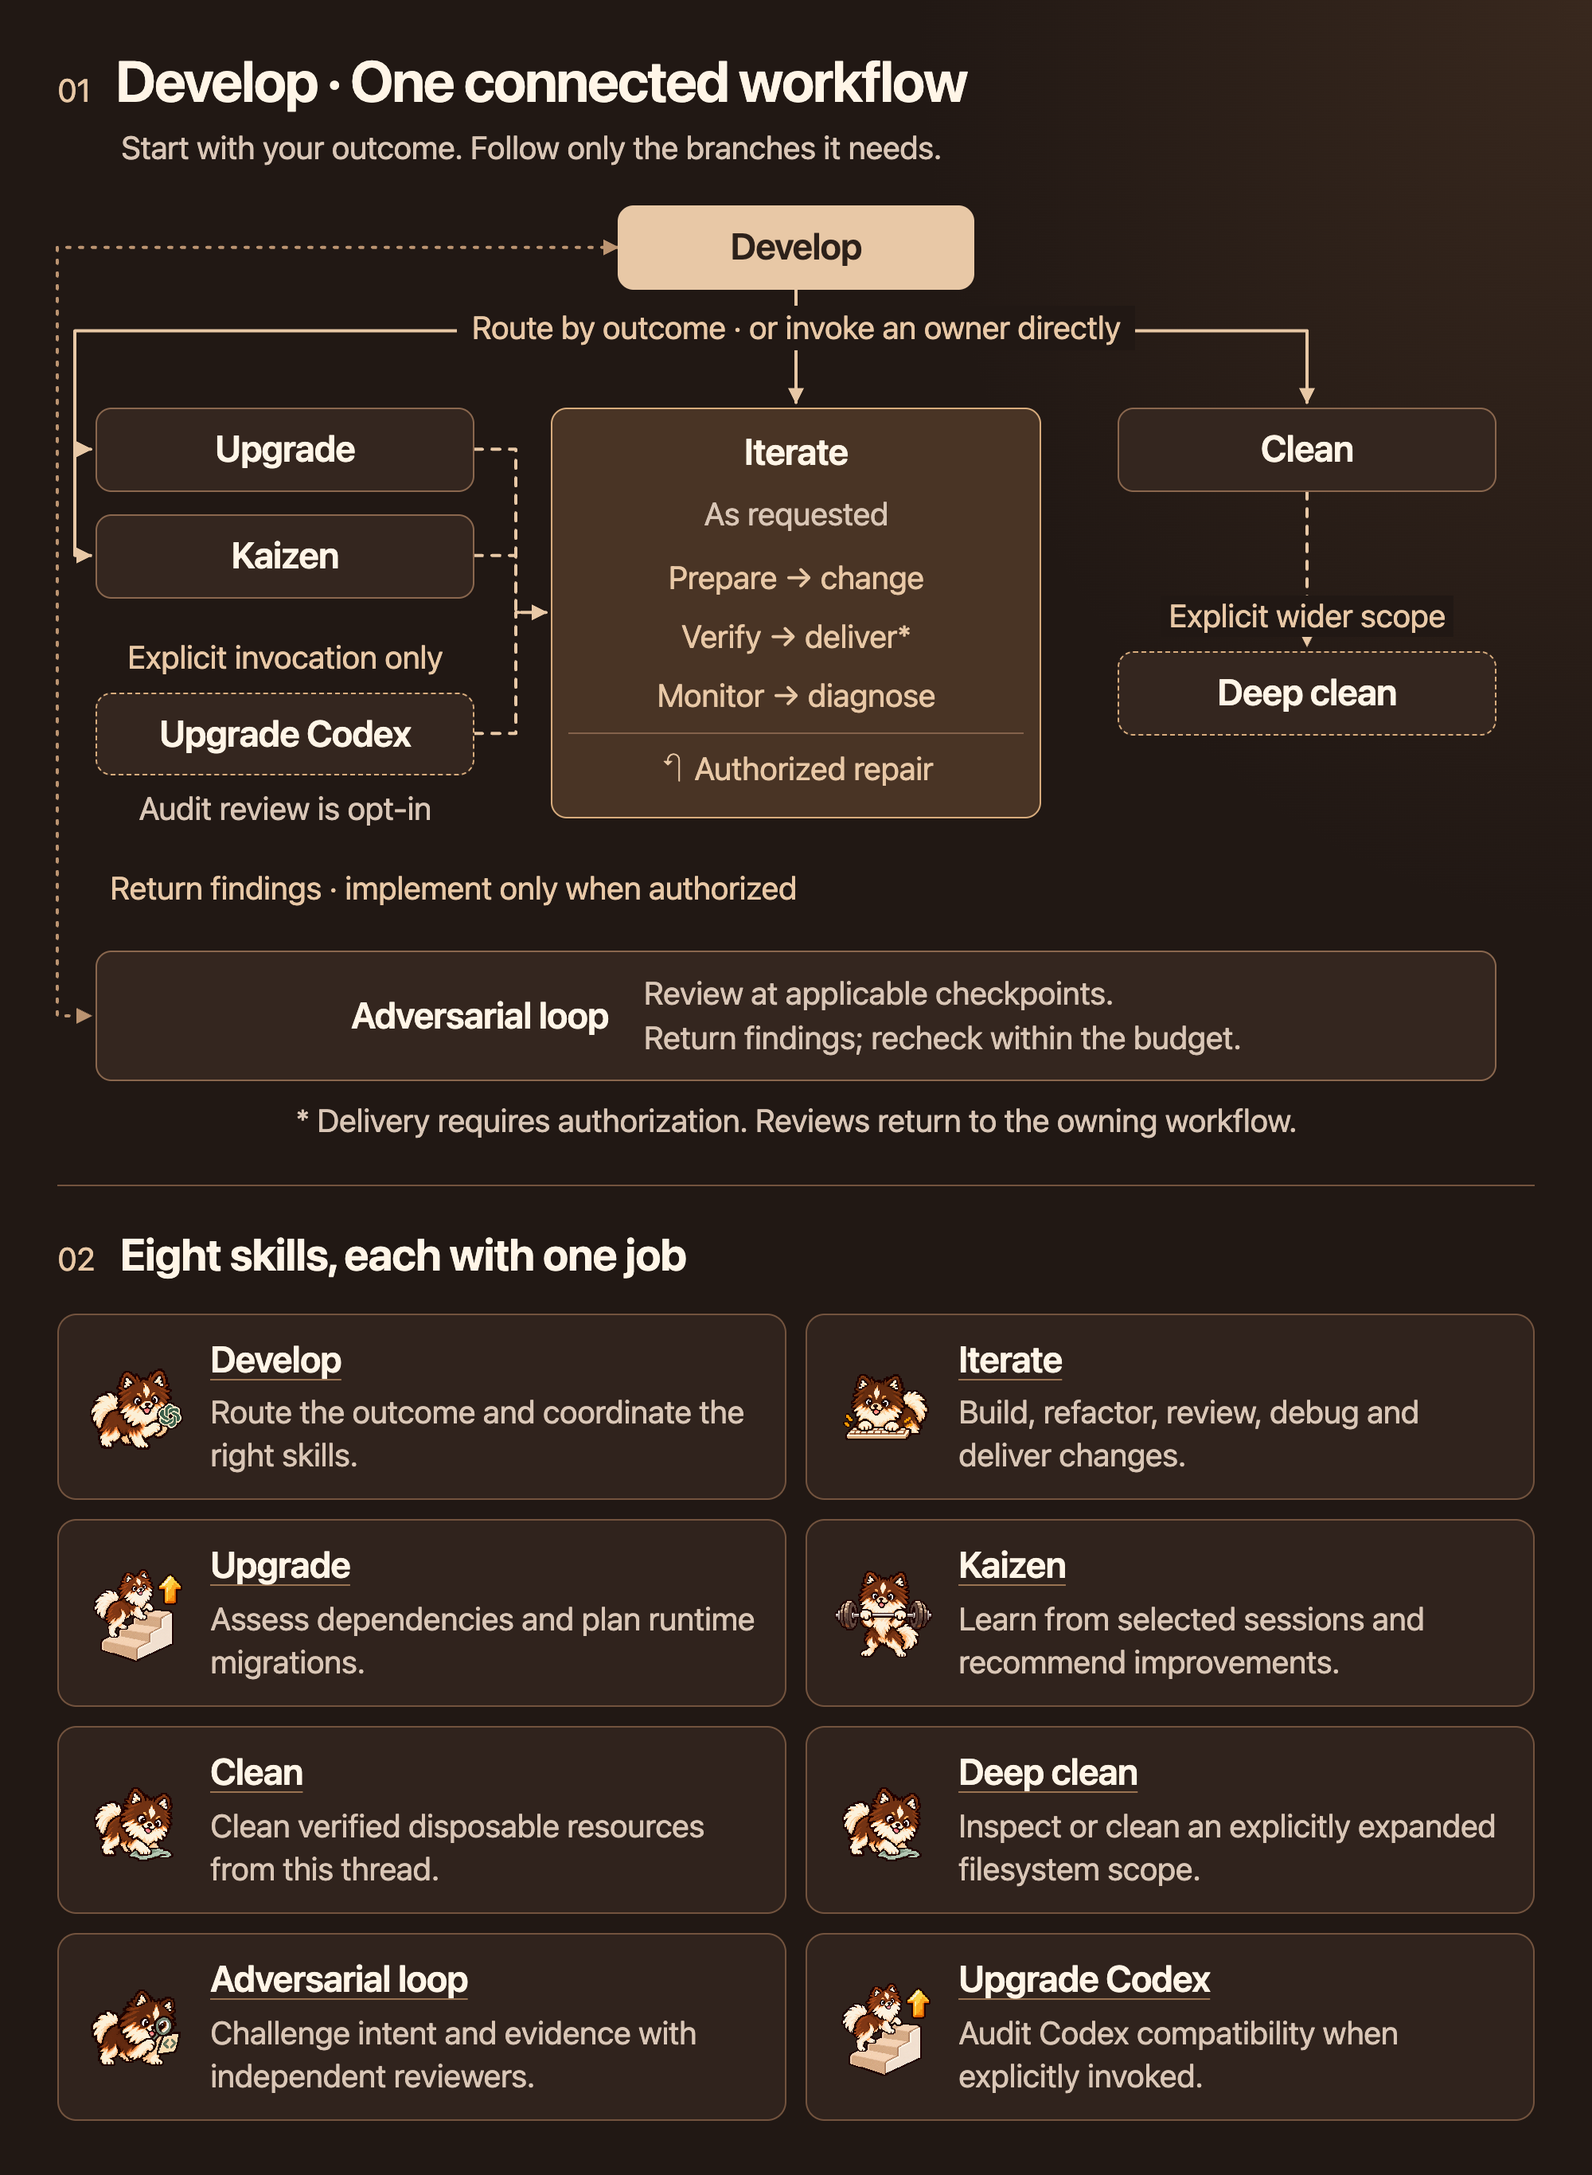
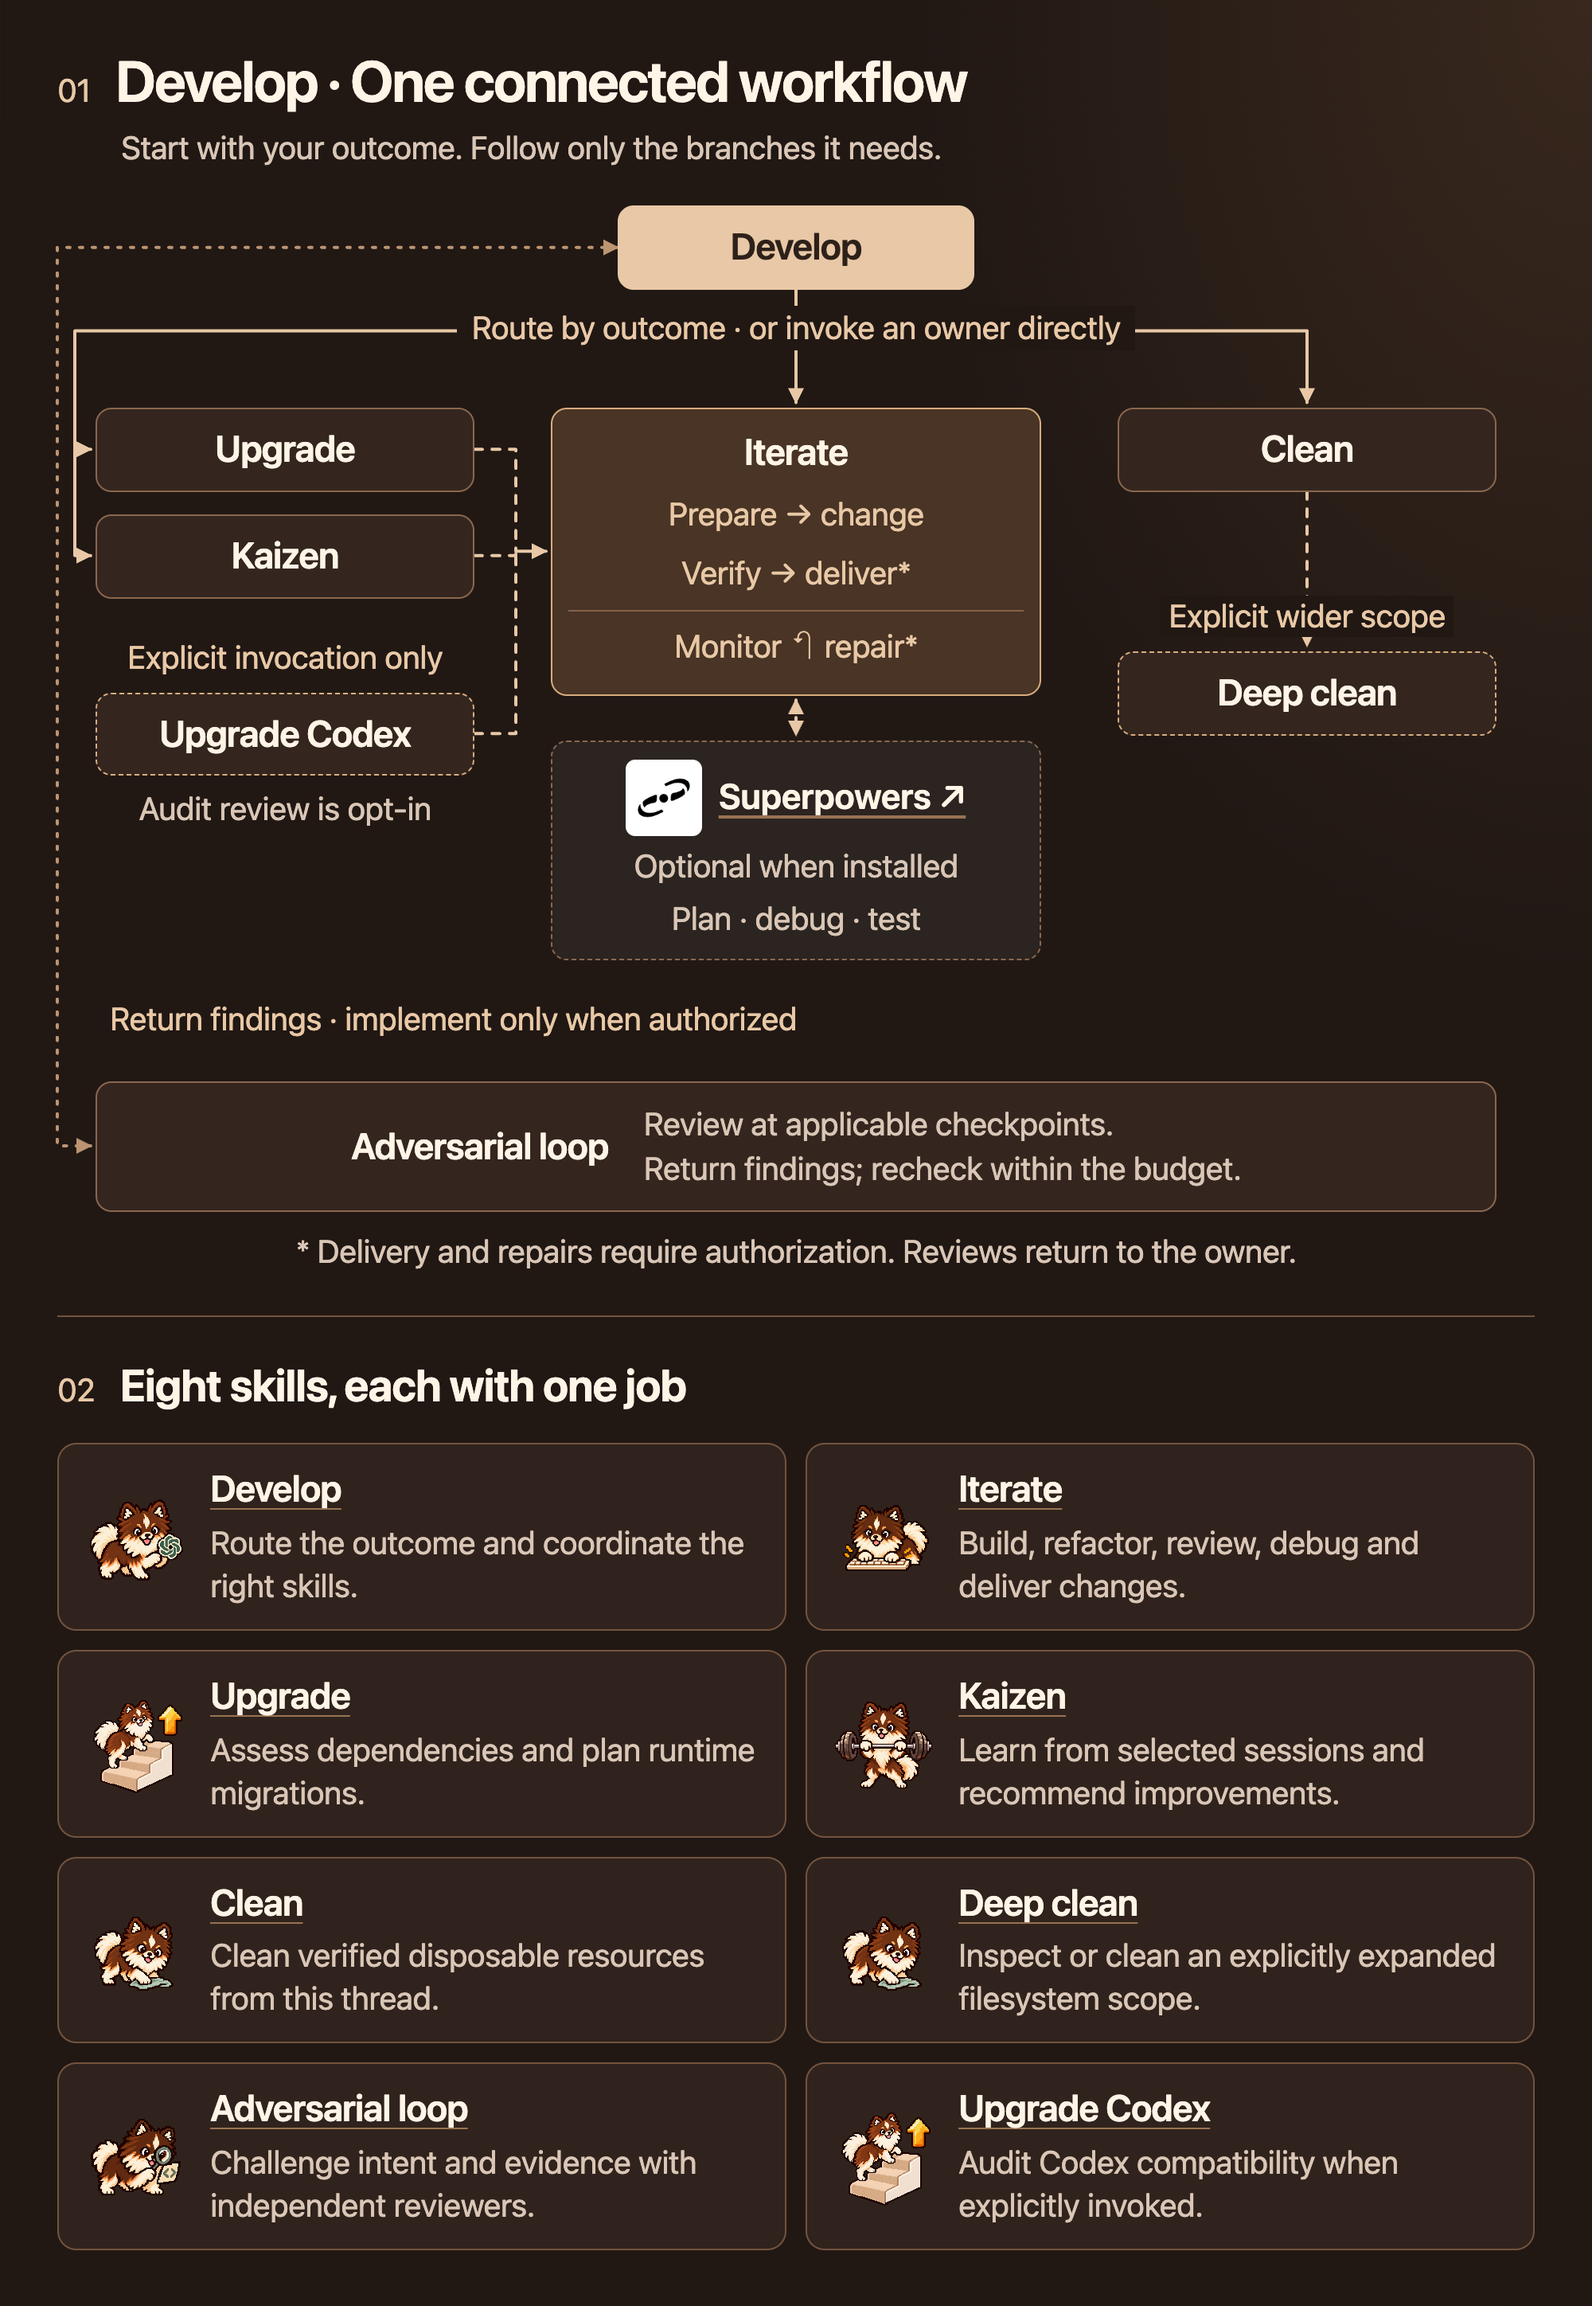
docs(develop): show optional Superpowers handoff

diff --git a/plugins/develop/docs/develop-overview.html b/plugins/develop/docs/develop-overview.html
@@ -48,6 +48,11 @@ h2 { font-size: 28px; letter-spacing: -.6px; font-weight: 650; }
 .audit-note { margin-top: 8px; text-align: center; font-size: 20px; line-height: 1.3; color: var(--muted); }
 .delivery { border-color: #d8ac7d; background: #493425; padding: 13px 10px 16px; }
 .delivery h3 { margin-bottom: 10px; }
+.implementation-lane { min-width: 0; }
+.external { margin-top: 28px; border-style: dashed; background: #2b2420; }
+.external-title { display: flex; justify-content: center; align-items: center; gap: 10px; font-size: 22px; font-weight: 600; text-decoration-color: #997352; }
+.external img { display: block; width: 48px; height: 48px; border-radius: 6px; background: #fff; }
+.external p { margin-top: 5px; }
 .delivery p { margin-bottom: 12px; }
 .delivery-steps { display: grid; gap: 9px; font-size: 20px; color: var(--accent); }
 .delivery-steps span { display: block; }
@@ -111,8 +116,8 @@ h2 { font-size: 28px; letter-spacing: -.6px; font-weight: 650; }
 <section id="workflow" aria-labelledby="workflow-title">
   <div class="section-heading"><span class="section-number">01</span><h1 id="workflow-title">Develop · One connected workflow</h1></div>
   <p class="intro">Start with your outcome. Follow only the branches it needs.</p>
-  <div class="workflow-map" role="img" aria-labelledby="workflow-title" aria-describedby="workflow-description">
-    <p id="workflow-description" class="sr-only">Start with Develop or invoke an owner directly. Develop routes the requested outcome to Upgrade, Kaizen, Iterate, Clean or Adversarial loop. Upgrade Codex is available only by explicit invocation. Upgrade, Kaizen and Upgrade Codex may return findings; they hand changes to Iterate only when implementation is authorized. Iterate performs the requested work and can loop through validation, authorized delivery, monitoring and authorized repair. Clean expands to Deep clean only for explicitly widened scope. Adversarial loop reviews applicable checkpoints and returns findings to the owner within a bounded review budget. An audit-only Upgrade Codex review is opt-in.</p>
+  <div class="workflow-map" role="group" aria-labelledby="workflow-title" aria-describedby="workflow-description">
+    <p id="workflow-description" class="sr-only">Start with Develop or invoke an owner directly. Develop routes the requested outcome to Upgrade, Kaizen, Iterate, Clean or Adversarial loop. Upgrade Codex is available only by explicit invocation. Upgrade, Kaizen and Upgrade Codex may return findings; they hand changes to Iterate only when implementation is authorized. Iterate performs the requested work and can loop through validation, authorized delivery, monitoring and authorized repair. Clean expands to Deep clean only for explicitly widened scope. Adversarial loop reviews applicable checkpoints and returns findings to the owner within a bounded review budget. An audit-only Upgrade Codex review is opt-in. Iterate may use compatible installed Superpowers guidance for planning, debugging and testing, then resumes with its existing scope and gates.</p>
     <svg class="connectors" aria-hidden="true"><defs><marker id="arrow" viewBox="0 0 10 10" refX="9" refY="5" markerWidth="5" markerHeight="5" orient="auto-start-reverse"><path d="M0 0L10 5L0 10Z" fill="#e8c8a6"/></marker><marker id="feedback-arrow" viewBox="0 0 10 10" refX="9" refY="5" markerWidth="5" markerHeight="5" orient="auto-start-reverse"><path d="M0 0L10 5L0 10Z" fill="#bc9471"/></marker></defs><g id="edge-layer"></g></svg>
     <div class="flow-node router" id="node-develop" data-skill="develop"><h3>Develop</h3></div>
     <p class="route-caption">Route by outcome · or invoke an owner directly</p>
@@ -126,10 +131,15 @@ h2 { font-size: 28px; letter-spacing: -.6px; font-weight: 650; }
           <p class="audit-note">Audit review is opt-in</p>
         </div>
       </div>
-      <div class="flow-node delivery" id="node-iterate" data-skill="iterate">
-        <h3>Iterate</h3>
-        <p>As requested</p>
-        <div class="delivery-steps"><span>Prepare → change</span><span>Verify → deliver*</span><span>Monitor → diagnose</span><span class="loop-back">↶ Authorized repair</span></div>
+      <div class="implementation-lane">
+        <div class="flow-node delivery" id="node-iterate" data-skill="iterate">
+          <h3>Iterate</h3>
+          <div class="delivery-steps"><span>Prepare → change</span><span>Verify → deliver*</span><span class="loop-back">Monitor ↶ repair*</span></div>
+        </div>
+        <div class="flow-node external" id="node-superpowers" data-external="superpowers">
+          <a class="external-title" href="https://github.com/openai/plugins/tree/main/plugins/superpowers" title="Official Superpowers Codex source"><img src="assets/superpowers-logo.png" width="48" height="48" alt="Official Superpowers logo"><span>Superpowers ↗</span></a>
+          <p>Optional when installed</p><p>Plan · debug · test</p>
+        </div>
       </div>
       <div class="cleanup-lane">
         <div class="flow-node" id="node-clean" data-skill="clean"><h3>Clean</h3></div>
@@ -141,7 +151,7 @@ h2 { font-size: 28px; letter-spacing: -.6px; font-weight: 650; }
     </div>
     <p class="handoff" id="handoff-label">Return findings · implement only when authorized</p>
     <div class="flow-node reviews" id="node-adversarial-loop" data-skill="adversarial-loop"><h3>Adversarial loop</h3><p>Review at applicable checkpoints.<br>Return findings; recheck within the budget.</p></div>
-    <p class="review-return">* Delivery requires authorization. Reviews return to the owning workflow.</p>
+    <p class="review-return">* Delivery and repairs require authorization. Reviews return to the owner.</p>
   </div>
 </section>
 <section id="skills" aria-labelledby="skills-title">
@@ -181,7 +191,8 @@ h2 { font-size: 28px; letter-spacing: -.6px; font-weight: 650; }
       if (both) path.setAttribute('marker-start', `url(#${marker})`);
       layer.append(path);
     };
-    const D = box('develop'), I = box('iterate'), C = box('clean'), X = box('deep-clean'), R = box('adversarial-loop');
+    const D = box('develop'), I = box('iterate'), C = box('clean'), X = box('deep-clean'), R = box('adversarial-loop'), S = box('superpowers');
+    edge(`M ${I.x} ${I.bottom + 3} V ${S.top - 3}`, 'conditional', true);
     const mobile = matchMedia('(max-width: 620px)').matches;
     if (mobile) {
       const routeX = 10, handoffX = bounds.width - 9;

diff --git a/plugins/develop/skills/iterate/references/implementation.md b/plugins/develop/skills/iterate/references/implementation.md
@@ -9,4 +9,4 @@ Use for authorized changes; review-only and prepared-change publication retain t
 5. Apply DRY and SOLID through clear responsibilities and stable contracts with their existing owners. Reuse a shared cause's fix instead of adding copies or speculative abstraction. Use [bounded refactoring](refactoring.md) when requested or justified within the affected scope, not as automatic polishing. Preserve APIs and security controls; investigate unexpected failures before stacking retries or workarounds.
 6. Follow [validation evidence](validation.md) and the shared review checkpoints. A fresh result establishes only the artifact and environment actually tested. Hand authorized publication to [publication](publication.md); local completion does not imply deployment.
 
-Compatible installed planning, debugging or review skills can supplement this process. Their tool names, installation state and permissions are host capabilities to verify, not assumptions to copy into the task.
+Compatible installed planning, debugging, testing or review skills can supplement this process. For example, [Superpowers in the Codex marketplace](https://github.com/openai/plugins/tree/main/plugins/superpowers) can provide scoped guidance such as `systematic-debugging` when installed and compatible. Verify tool support and availability; keep Iterate as the implementation/delivery owner and preserve the current scope, authorization, review checkpoints and budget. This optional handoff does not import the entire external workflow or require installation.

diff --git a/plugins/develop/docs/assets/NOTICE.md b/plugins/develop/docs/assets/NOTICE.md
@@ -1,0 +1,13 @@
+# Superpowers artwork
+
+`superpowers-logo.png` is the unchanged official Superpowers logo, published in the
+[Codex marketplace source](https://github.com/openai/plugins/tree/main/plugins/superpowers)
+and declared by its plugin manifest. Superpowers is by Jesse Vincent.
+
+- [Pinned logo source](https://github.com/openai/plugins/blob/0722921d5542fc593105c27bd52630babd8b8c2a/plugins/superpowers/.codex-plugin/assets/logo.png)
+- [Upstream project](https://github.com/obra/superpowers)
+- Git blob: `25518da4625e850d97b15a9e0a27e7115969dc0d`
+- [MIT license](superpowers-LICENSE), retained in full. This asset keeps its upstream license; Develop's own package license is unchanged.
+
+The documentation depicts optional use of compatible installed guidance.
+It does not bundle Superpowers skills or establish runtime integration.

diff --git a/plugins/develop/README.md b/plugins/develop/README.md
@@ -4,4 +4,4 @@ Eight portable skills for development, review and maintenance. [Install in Codex
 
 [![Develop: one workflow with conditional branches and a review loop, followed by the eight skills and their logos.](docs/develop-overview.png)](docs/develop-overview.png)
 
-[Full-size image](docs/develop-overview.png) · [HTML source](docs/develop-overview.html) · [Maintainer instructions](AGENTS.md) · [Apache-2.0](LICENSE)
+[Full-size image](docs/develop-overview.png) · [HTML source](docs/develop-overview.html) · [Superpowers Codex source](https://github.com/openai/plugins/tree/main/plugins/superpowers) · [Maintainer instructions](AGENTS.md) · [Apache-2.0](LICENSE)
